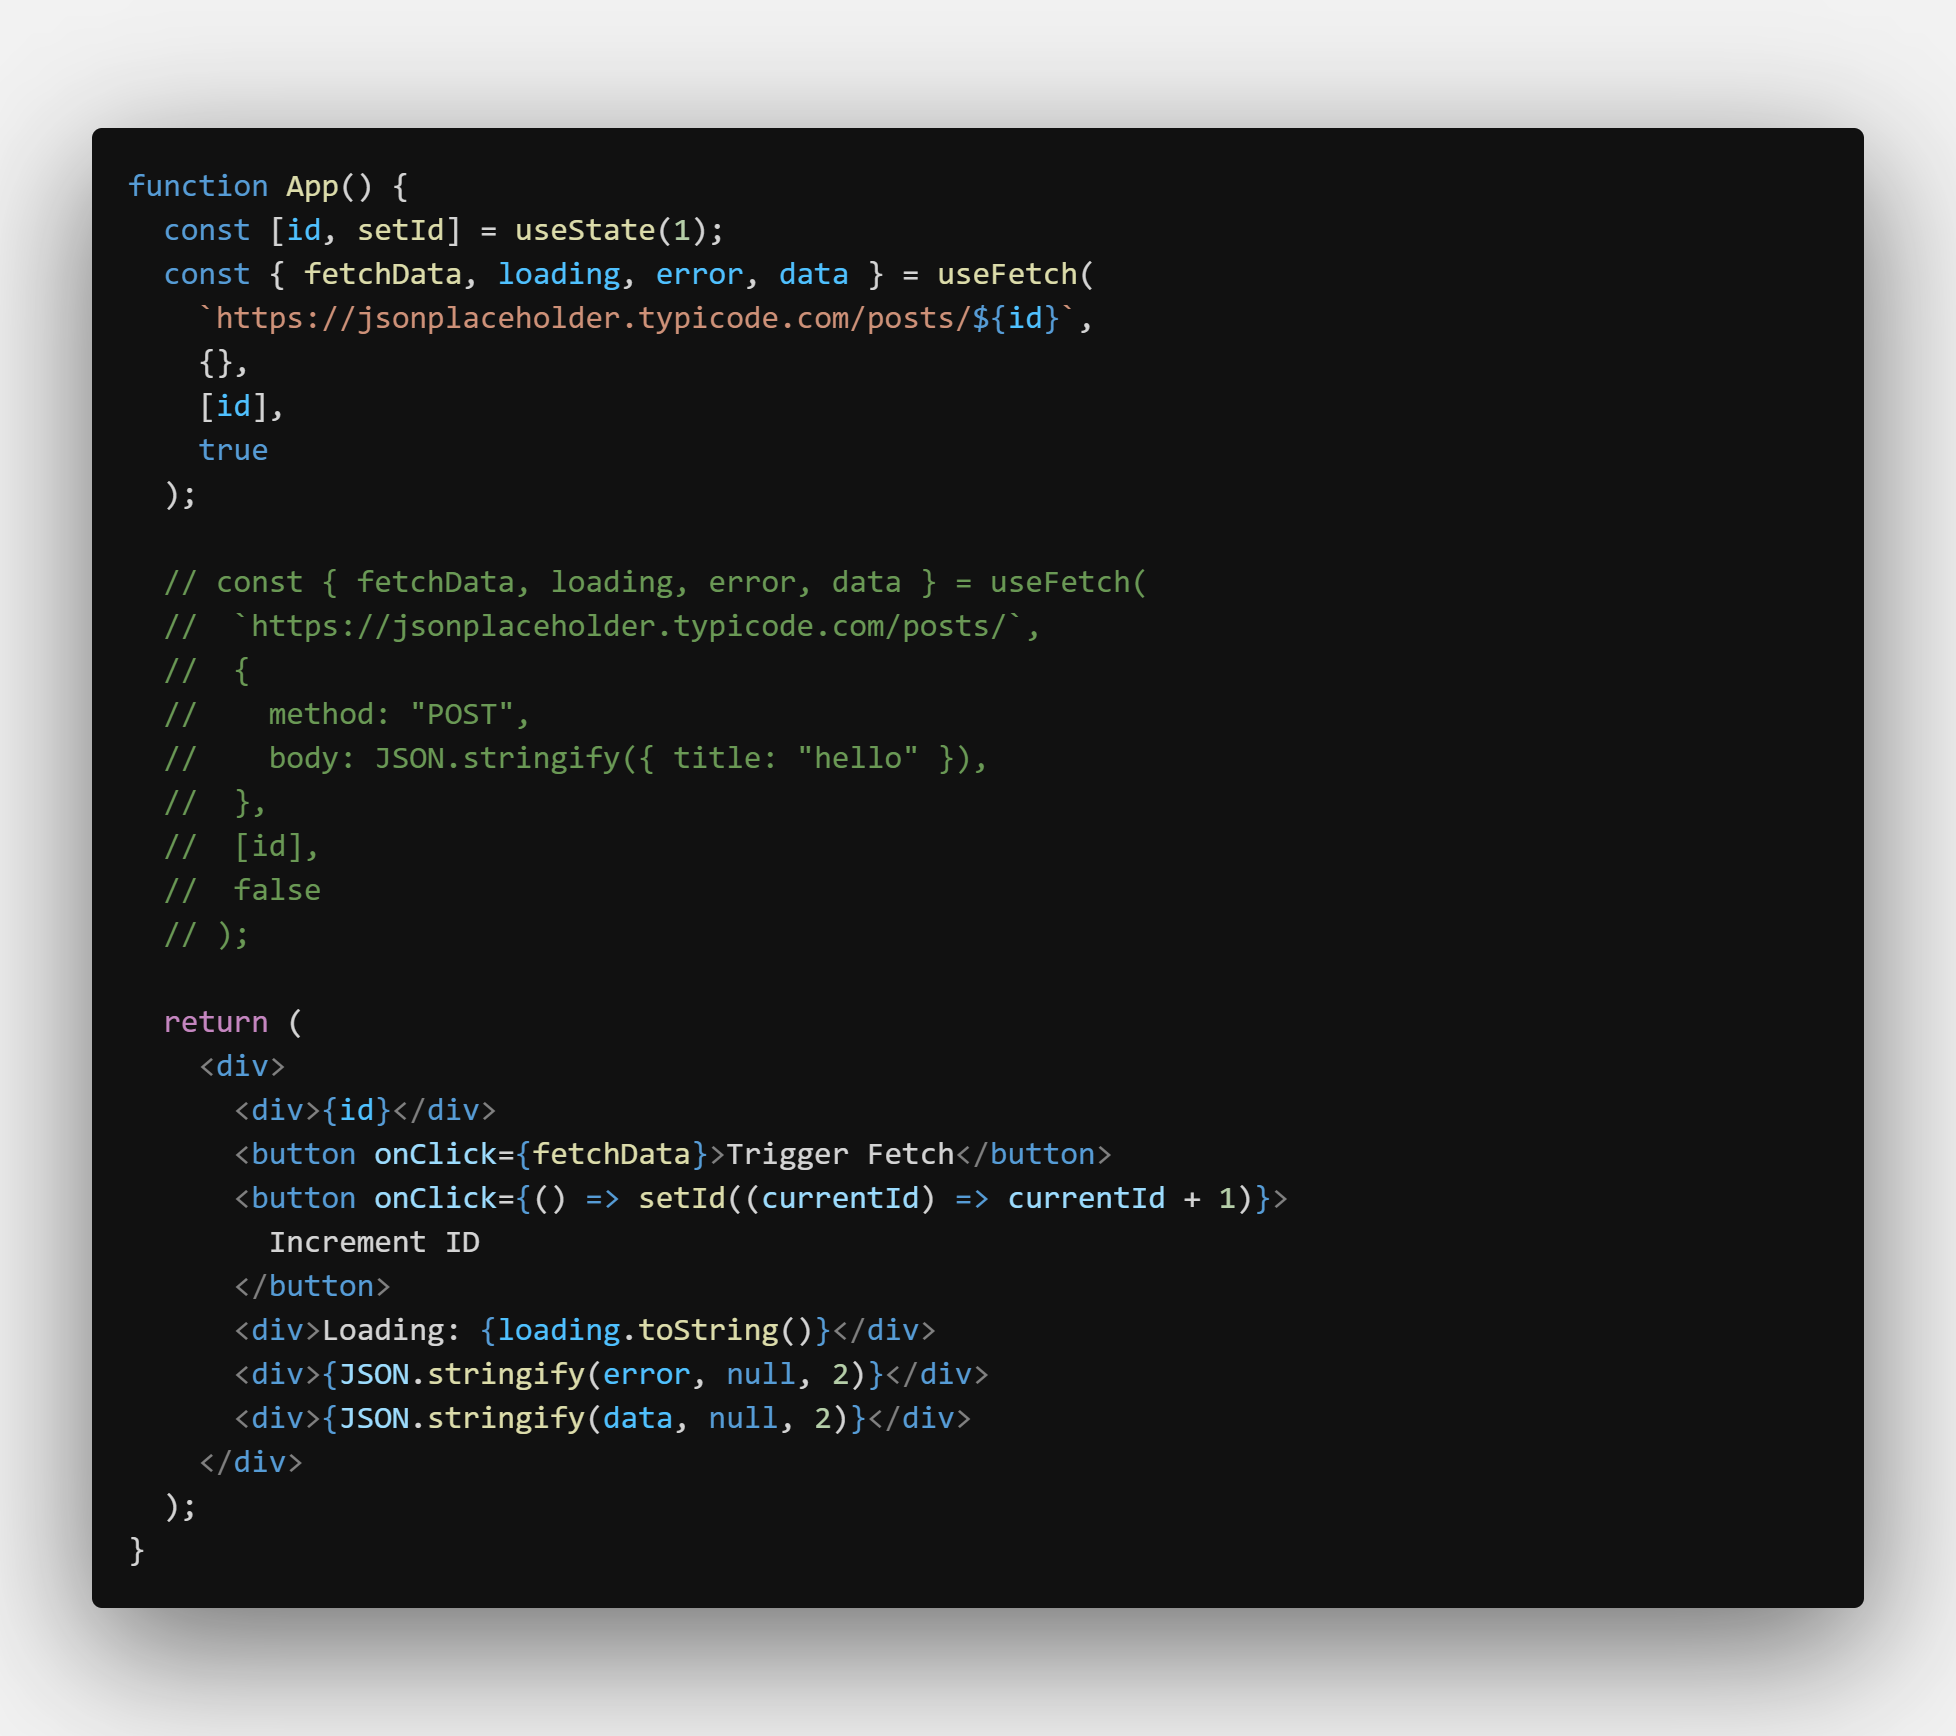
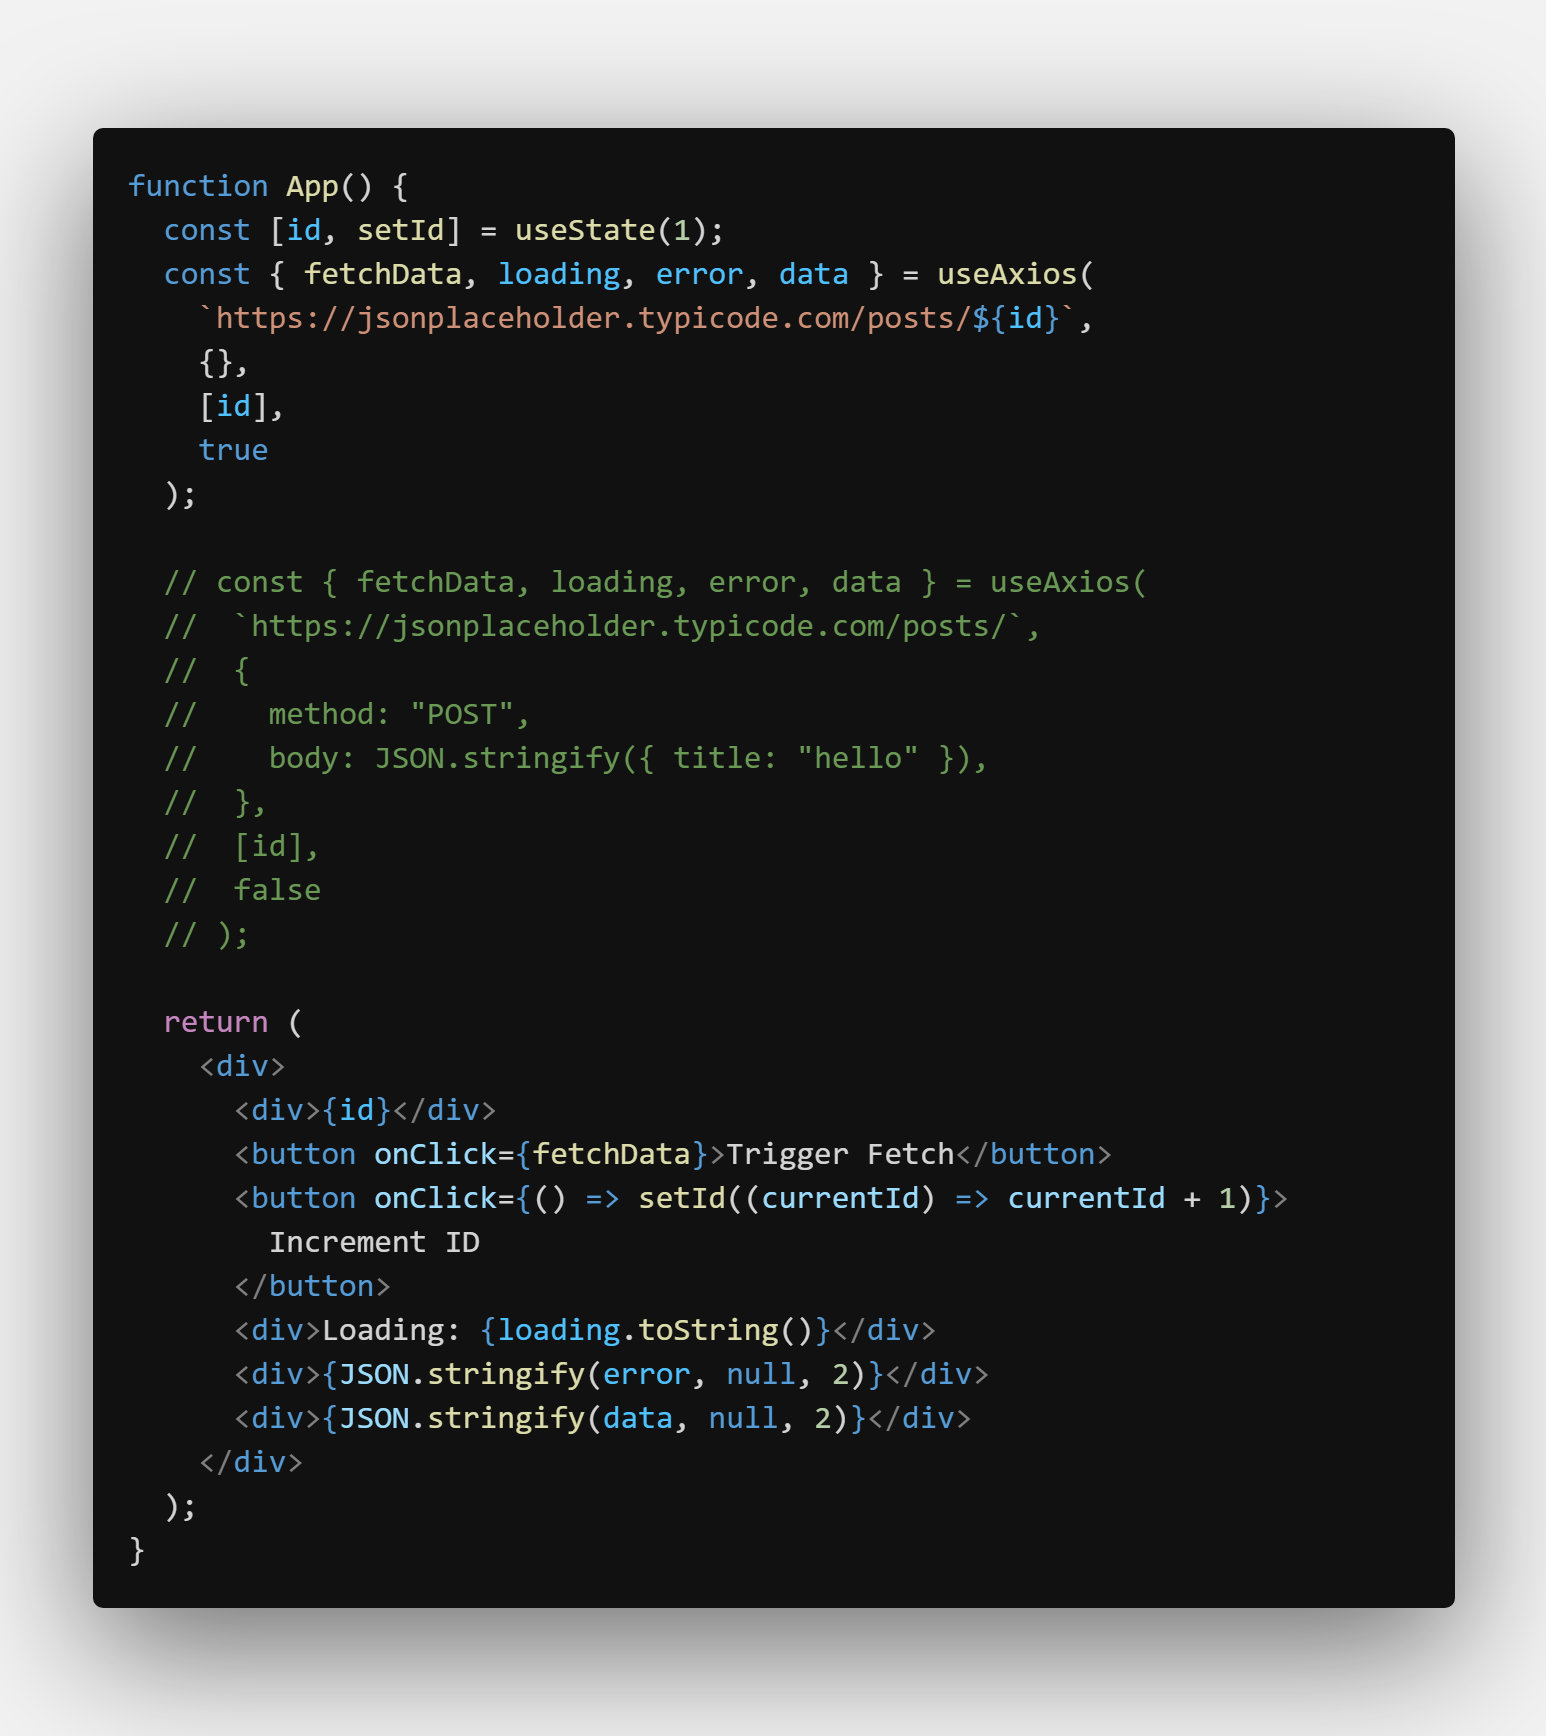
useAxios

diff --git a/src/Hook/useAxios.js b/src/Hook/useAxios.js
@@ -1,8 +1,9 @@
 import { useCallback, useEffect, useRef, useState } from "react";
+import axios from "axios";
 
 /**
  * How To Use
- * 	- const { fetchData, loading, error, data } = useFetch(url, options, dependencies, runNow);
+ * 	- const { fetchData, loading, error, data } = useAxios(url, options, dependencies, runNow);
  *
  * 	- fetchData:
  * 			- Fetch Data Function Help You Fetch Data Again
@@ -12,7 +13,7 @@ import { useCallback, useEffect, useRef, useState } from "react";
  * 	- data: Data Back From API
  * 	- url: End Point
  * 	- options:
- * 			- Fetch Options By Default {headers: Set To Json } and Signal
+ * 			- Fetch Options By Default {headers: Set To Json } and cancelToken
  * 			- By Default {method: "GET"}
  * 			- You Can Change Method, Add Body
  * 			- Example - Like {method: "POST", body: JSON.stringify({ title: "hello" }
@@ -22,39 +23,33 @@ import { useCallback, useEffect, useRef, useState } from "react";
  * 			- false: Run Fetch When Call fetchData Function
  */
 
-export function useFetch(url, options = {}, dependencies = [], runNow = true) {
+export function useAxios(url, options = {}, dependencies = [], runNow = true) {
 	const [loading, setLoading] = useState(runNow);
 	const [error, setError] = useState();
 	const [data, setData] = useState();
 
-	const abortCount = useRef(new AbortController());
-	const abortCountCurrent = abortCount.current;
+	const source = useRef(axios.CancelToken.source());
+	const sourceCurrent = source.current;
 
 	const DEFAULT_OPTIONS = {
 		headers: { "Content-Type": "application/json" },
-		signal: abortCountCurrent.signal,
+		cancelToken: sourceCurrent.token,
 	};
 
 	useEffect(() => {
-		return () => abortCountCurrent.abort();
-	}, [abortCountCurrent]);
+		return () => sourceCurrent.cancel("An error occurred. Awkward..");
+	}, [sourceCurrent]);
 
 	const fetchData = useCallback(() => {
 		setLoading(true);
 		setError(undefined);
 		setData(undefined);
 
-		fetch(url, { ...DEFAULT_OPTIONS, ...options })
-			.then((res) => {
-				if (res.ok) return res.json();
-
-				return res
-					.json()
-					.then(() => Promise.reject("An error occurred. Awkward.."));
-			})
-			.then(setData)
+		axios({ url, ...DEFAULT_OPTIONS, ...options })
+			.then(({ data }) => setData(data))
 			.catch((err) => {
-				if (err.name !== "AbortError") setError(err.message);
+				if (axios.isCancel(err)) setError(err.message);
+				if (!axios.isCancel(err)) setError("Error " + err.message);
 			})
 			.finally(() => setLoading(false));
 

diff --git a/src/App.js b/src/App.js
@@ -1,9 +1,9 @@
 import { useState } from "react";
-import { useFetch } from "./Hook/useFetch";
+import { useAxios } from "./Hook/useAxios";
 
 /**
  * How To Use
- * 	- const { fetchData, loading, error, data } = useFetch(url, options, dependencies, runNow);
+ * 	- const { fetchData, loading, error, data } = useAxios(url, options, dependencies, runNow);
  *
  * 	- fetchData:
  * 			- Fetch Data Function Help You Fetch Data Again
@@ -13,7 +13,7 @@ import { useFetch } from "./Hook/useFetch";
  * 	- data: Data Back From API
  * 	- url: End Point
  * 	- options:
- * 			- Fetch Options By Default {headers: Set To Json } and Signal
+ * 			- Fetch Options By Default {headers: Set To Json } and cancelToken
  * 			- By Default {method: "GET"}
  * 			- You Can Change Method, Add Body Like {method: "POST", body: JSON.stringify({ title: "hello" }
  * 	- dependencies: Array Of Dependencies To Use It [runNow: true]
@@ -24,14 +24,14 @@ import { useFetch } from "./Hook/useFetch";
 
 function App() {
 	const [id, setId] = useState(1);
-	const { fetchData, loading, error, data } = useFetch(
+	const { fetchData, loading, error, data } = useAxios(
 		`https://jsonplaceholder.typicode.com/posts/${id}`,
 		{},
 		[id],
 		true
 	);
 
-	// const { fetchData, loading, error, data } = useFetch(
+	// const { fetchData, loading, error, data } = useAxios(
 	// 	`https://jsonplaceholder.typicode.com/posts/`,
 	// 	{
 	// 		method: "POST",

diff --git a/README.md b/README.md
@@ -1,12 +1,12 @@
-# useFetch
+# useAxios
 
-- Help You Handle API Request Easy [ GET, POST, DELETE, PUT, PATCH ]
+- Help You Handle API Request Easy With Axios [ GET, POST, DELETE, PUT, PATCH ]
 
 ---
 
 ### How To Use
 
-    - const { fetchData, loading, error, data } = useFetch(url, options, dependencies, runNow);
+    - const { fetchData, loading, error, data } = useAxios(url, options, dependencies, runNow);
 
     - fetchData:
     		- Fetch Data Function Help You Fetch Data Again
@@ -16,7 +16,7 @@
     - data: Data Back From API
     - url: End Point
     - options:
-    		- Fetch Options By Default {headers: Set To Json } and Signal
+    		- Fetch Options By Default {headers: Set To Json } and cancelToken
     		- By Default {method: "GET"}
     		- You Can Change Method, Add Body
     		- Example - Like {method: "POST", body: JSON.stringify({ title: "hello" }
@@ -29,9 +29,9 @@
 
 ## Screenshots
 
-#### useFetch Hook
+#### useAxios Hook
 
-![useFetch Hook](images/useFetch.png "useFetch Hook")
+![useAxios Hook](images/useAxios.png "useAxios Hook")
 
 #### Example
 
